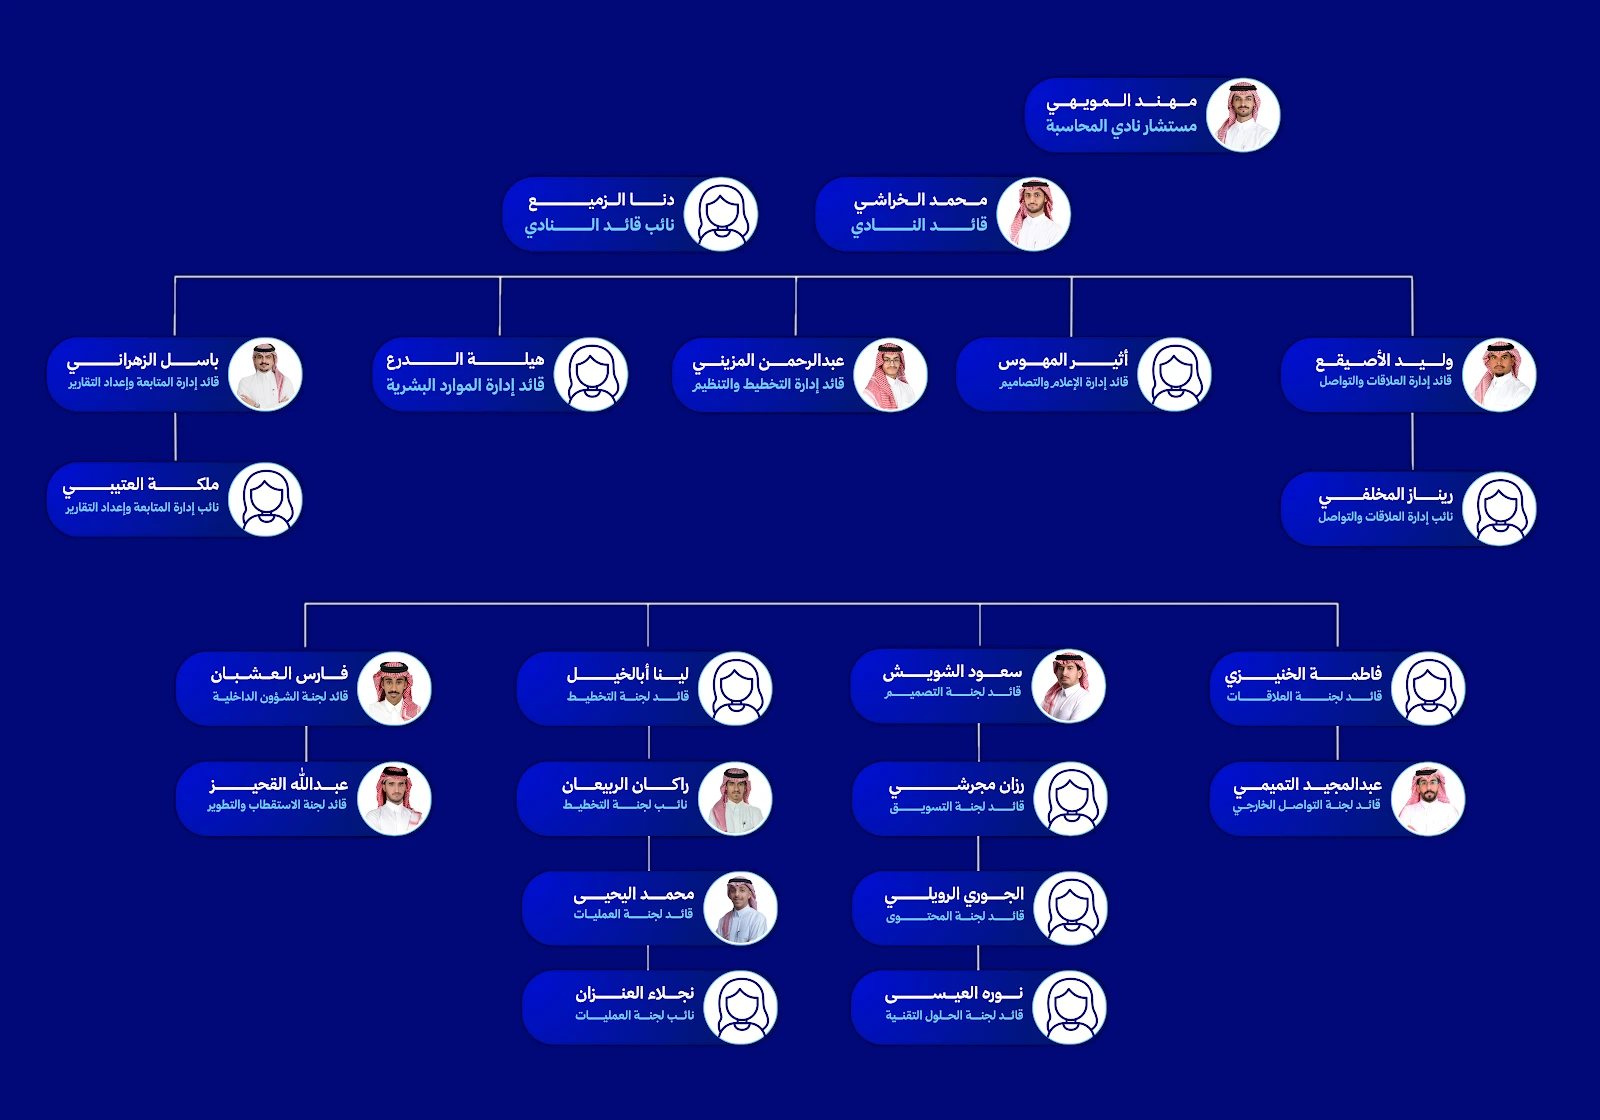
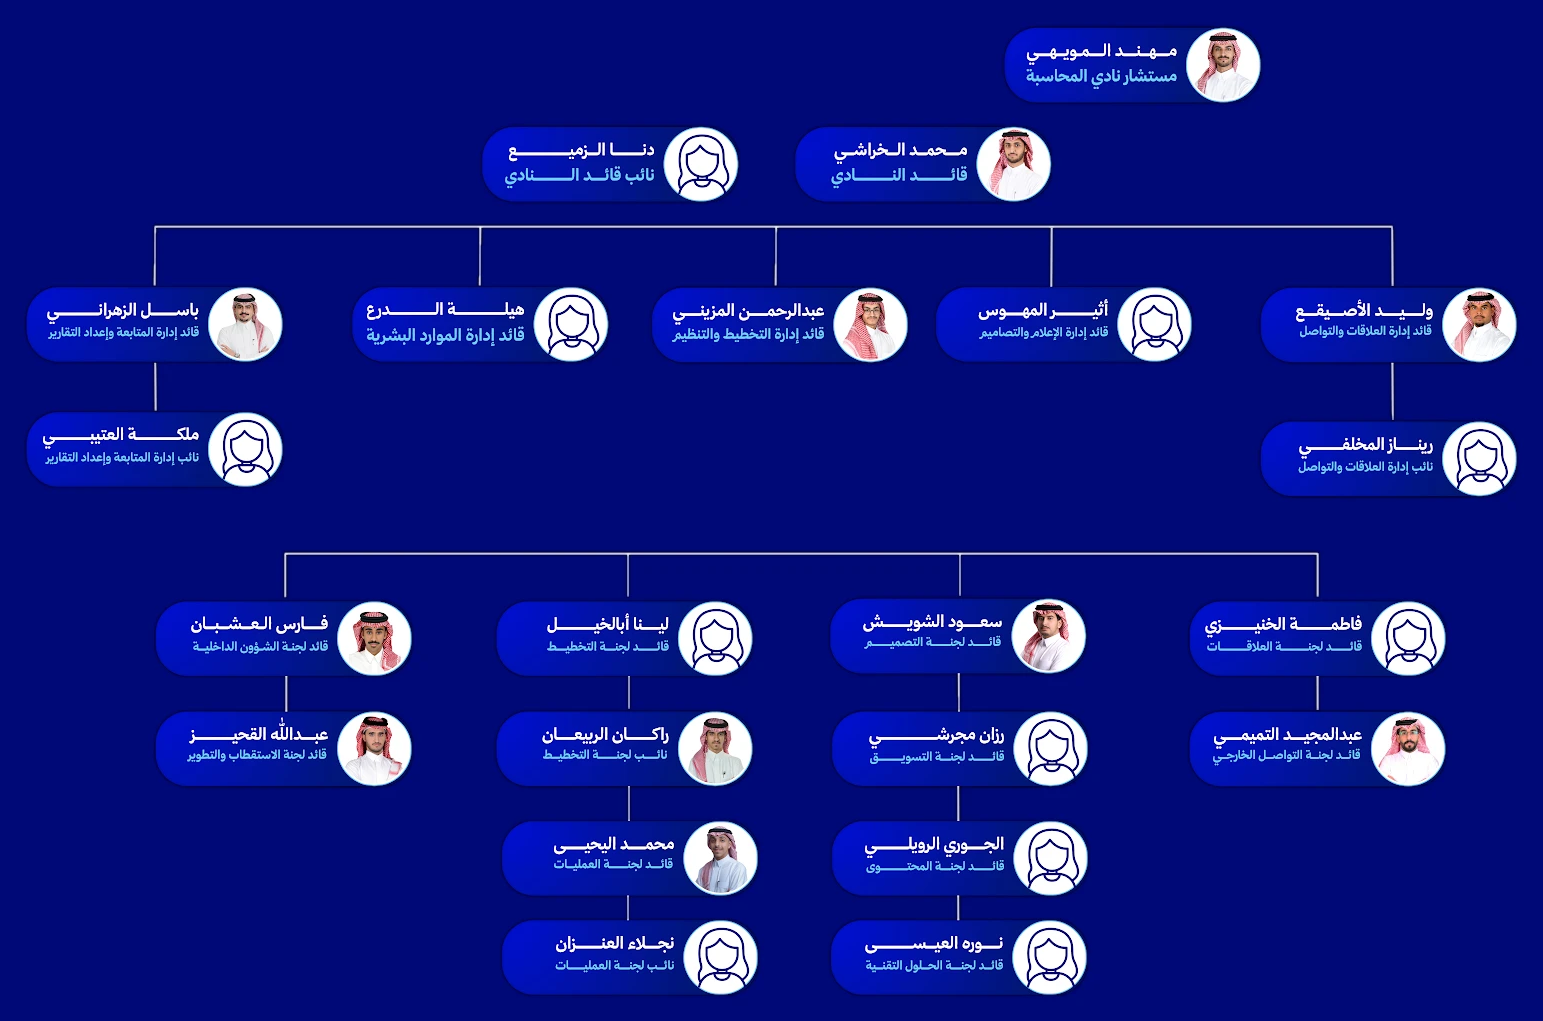
إصلاح الفاصل اللوني وتحسين جودة صورة الهيكل التنظيمي (#106)
* تحويل روابط صور الفعاليات من Google Drive لصيغة عرض مباشر

روابط المشاركة العادية من درايف (?usp=drivesdk) ترجع صفحة معاينة
بدل الصورة نفسها فتظهر فارغة داخل بطاقة الفعالية، فأضفنا تحويل
تلقائي لمعرّف الملف لصيغة lh3.googleusercontent.com اللي تشتغل
مباشرة كصورة.

* تحديد ليمت ٧٠ مسجل لورشة بين دقة المحاسبة ورؤية المالية

عند اكتمال ٧٠ مسجل (بالاعتماد على شيت ردود فورم الورشة الخاص)،
زر "سجل الآن" يتحول لـ"انتهى التسجيل" بالصفحة الرئيسية وصفحة
الفعاليات، ونفس الأمر بصفحة التسجيل نفسها.

* تفعيل مفتاح فتح تسجيل ورشة بين دقة المحاسبة ورؤية المالية

الاسم بالشيت لسا فيه "قريباً"، فالزر ما يتغير لـ"سجل الآن" ولا
يشتغل الإرسال فعليًا إلا بعد تحديث اسم الفعالية بالشيت لإزالة
هذي الكلمة.

* إضافة رابط موقع الورشة برسالة نجاح تسجيل ورشة دقة المحاسبة

رسالة نجاح مخصصة تظهر بعد التسجيل بورشة "بين دقة المحاسبة ورؤية
المالية" فيها رابط موقع الورشة على خرائط قوقل، بدل الرسالة العامة.

* حذف رسالة دخول القائد والأعضاء ورابط قروب الواتساب من رسالة نجاح تسجيل الفريق

* إغلاق يدوي فوري لتسجيل ورشة بين دقة المحاسبة ورؤية المالية

بغض النظر عن عدد المسجلين الفعلي، الزر يتحول لـ"انتهى التسجيل"
بكل الأماكن (الرئيسية، صفحة الفعاليات، صفحة التسجيل)، والإرسال
يُمنع برسالة "انتهى التسجيل" لو حد وصل للفورم مباشرة.

* نقل ورشة بين دقة المحاسبة ورؤية المالية للفعاليات السابقة

إضافة صورتها وبطاقتها بالفعاليات السابقة بنفس أسلوب الوصف
المستخدم بباقي الفعاليات.

* حذف لوجو "شركاؤنا" وتغيير عنوان القسم لـ"الزيارات الميدانية"

* تعديل نص وصف قسم الزيارات الميدانية ليتناسب مع العنوان
[…]

Changed region(s): [[0.0933, 0.5162, 0.9644, 0.9716], [0.0, 0.0, 0.9955, 0.4858]]

diff --git a/styles-2026-09-11.css b/styles-2026-09-11.css
@@ -638,12 +638,6 @@ a.register-btn--soon{
     padding:110px 0;background:var(--ink);color:var(--white);
     position:relative;overflow:hidden;
   }
-  .membership::after{
-    content:"";position:absolute;left:-10%;top:-30%;
-    width:520px;height:520px;border-radius:50%;
-    background:radial-gradient(circle, rgba(108,207,246,.25), transparent 70%);
-    pointer-events:none;
-  }
   .membership-box{position:relative;z-index:1;max-width:100%;margin:0 auto;text-align:center;}
   .membership .eyebrow{color:var(--sky);justify-content:center;}
   .membership h2{color:var(--white);}
